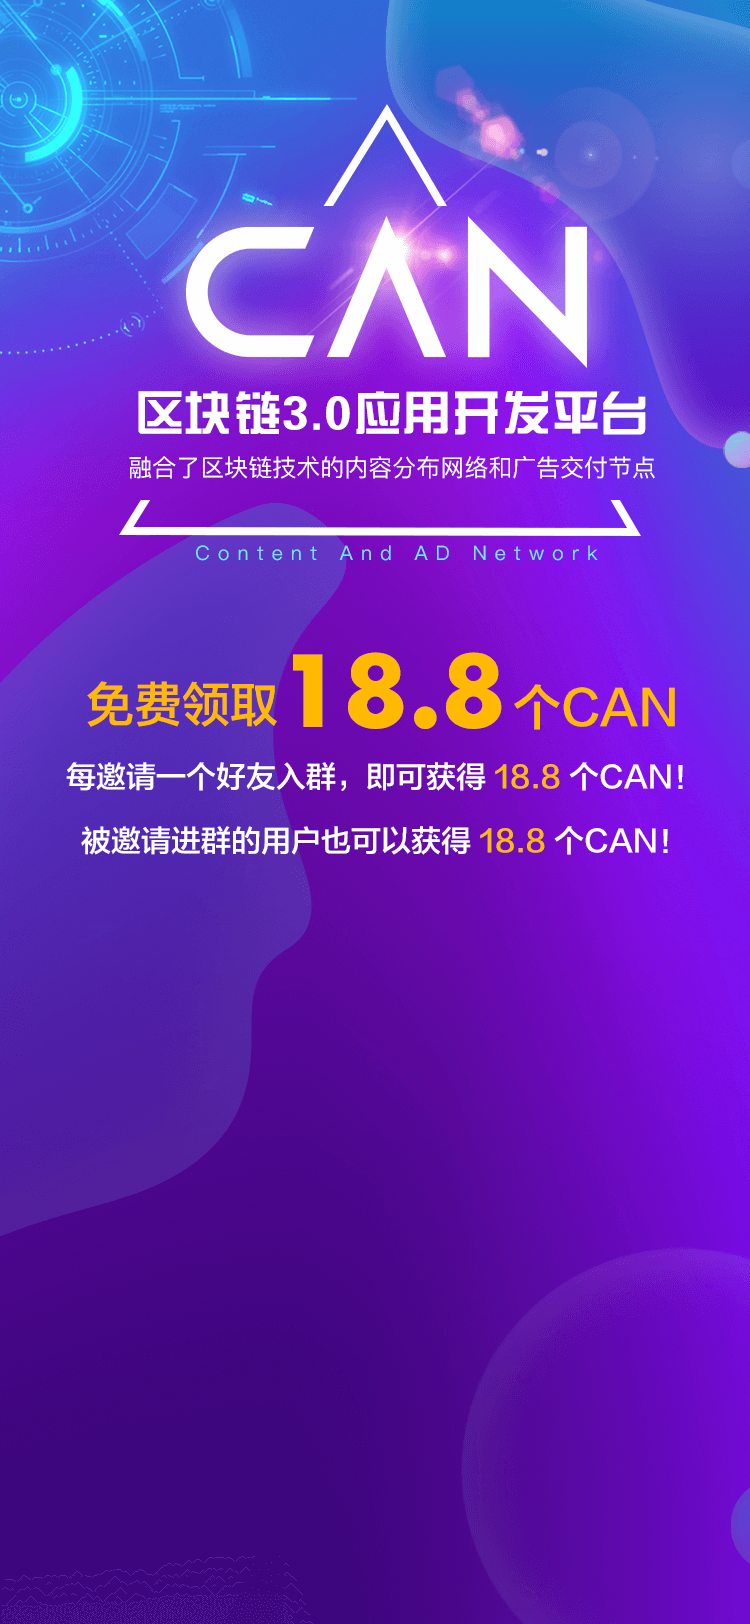
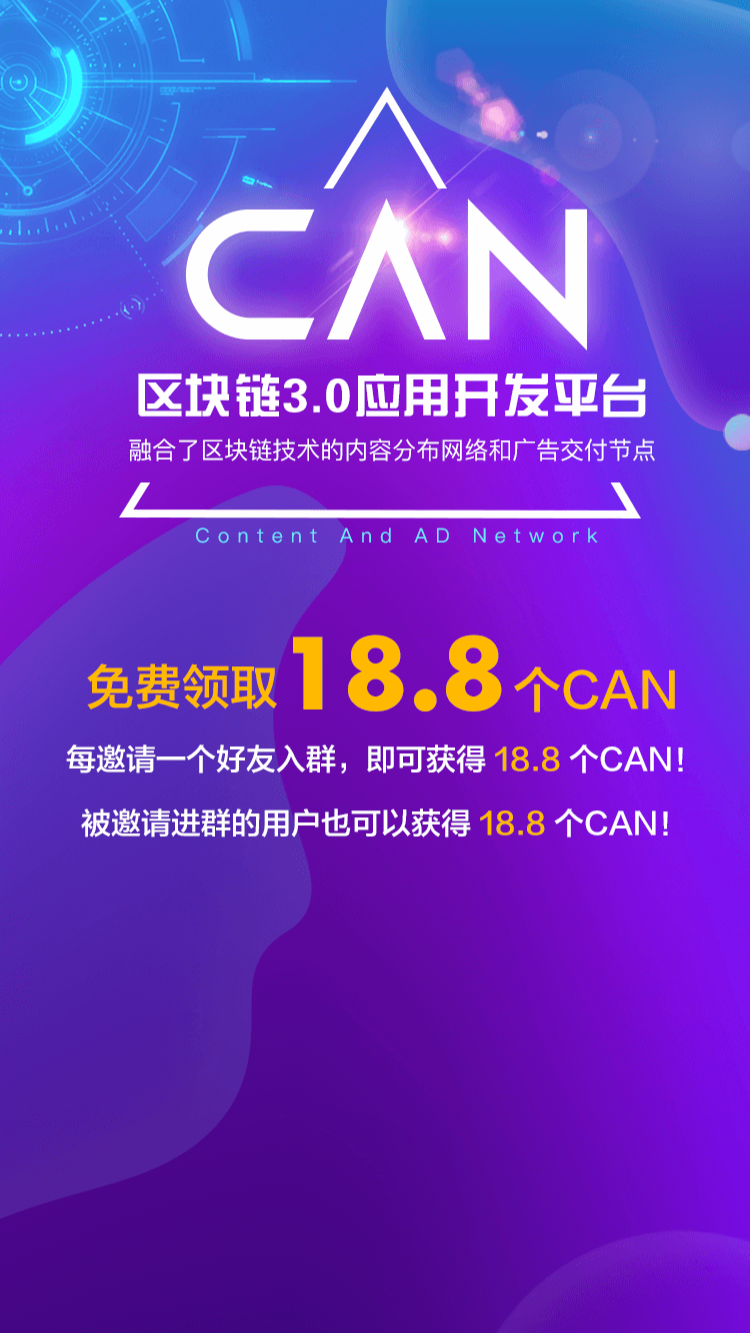
qr

diff --git a/utils/qrUtils.js b/utils/qrUtils.js
@@ -35,9 +35,9 @@ qrUtils.createQr = function(url,imgName, callback){
 qrUtils.addWater = function(sourceImg, waterImg, callback){ 
     images(sourceImg)                     //Load image from file   
                                             //加载图像文件  
-        .size(768)                          //Geometric scaling the image to 400 pixels width  
+        .size(750)                          //Geometric scaling the image to 400 pixels width  
                                             //等比缩放图像到400像素宽  
-        .draw(images(waterImg), 213, 978)   //Drawn logo at coordinates (70,260)//为了遮住不该看的东西..  
+        .draw(images(waterImg), 213, 908)   //Drawn logo at coordinates (70,260)//为了遮住不该看的东西..  
                                             //在(10,10)处绘制Logo  
         .save(waterImg, {               //Save the image to a file,whih quality 50  
             quality : 50                    //保存图片到文件,图片质量为50  

diff --git a/routes/robot.js b/routes/robot.js
@@ -13,12 +13,9 @@ const replyrobot = require('../utils/replyrobot');
  * 解析邀请码
  */
 router.post('/', function(req, res, next) {
-    //console.log(req.body);
     // 获取内容
     let text = req.body.message.text;
     let chatid = req.body.message.chat.id;
-    //let text = req.body.text;
-    //let chatid = req.body.id;
     //console.log('聊天id：',chatid);
 
     // 不是邀请码的后缀
